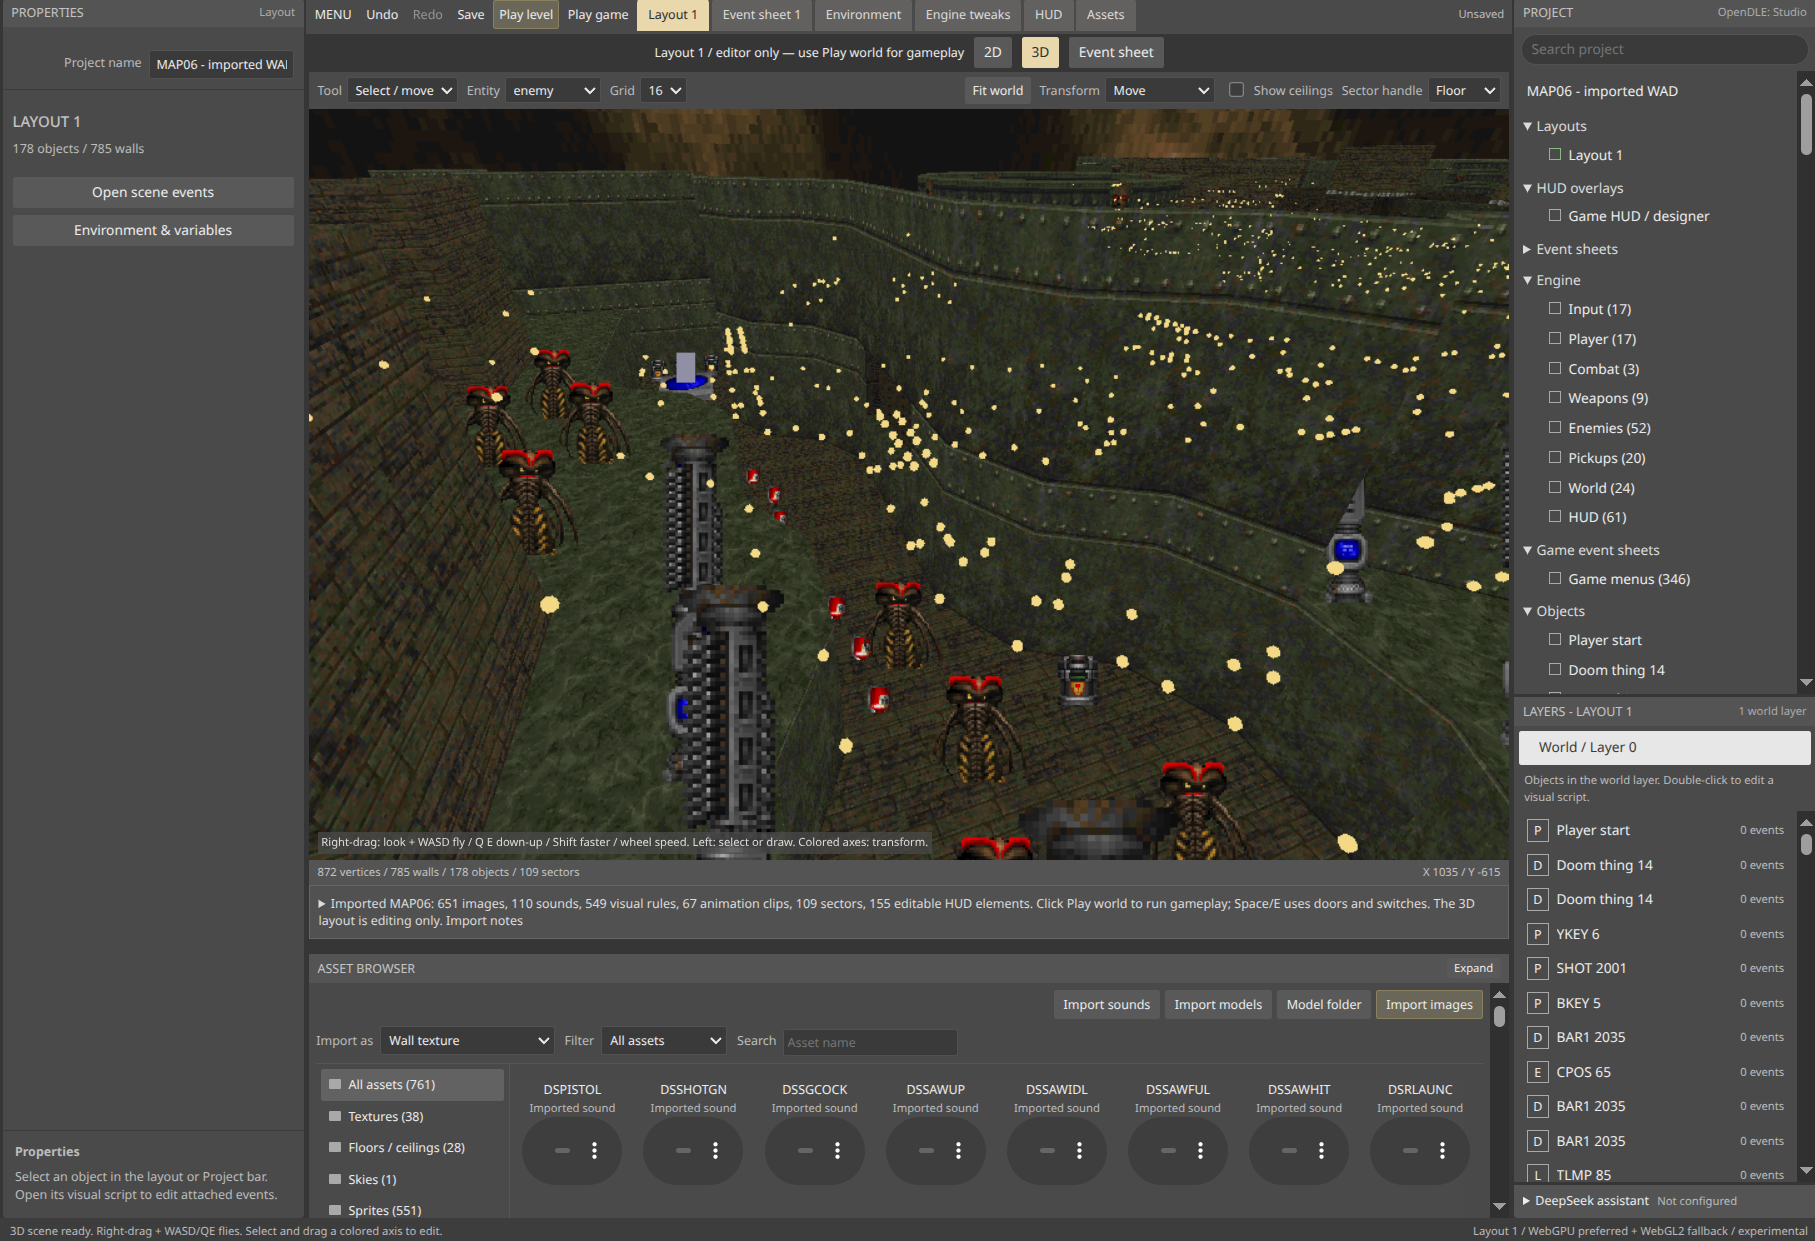
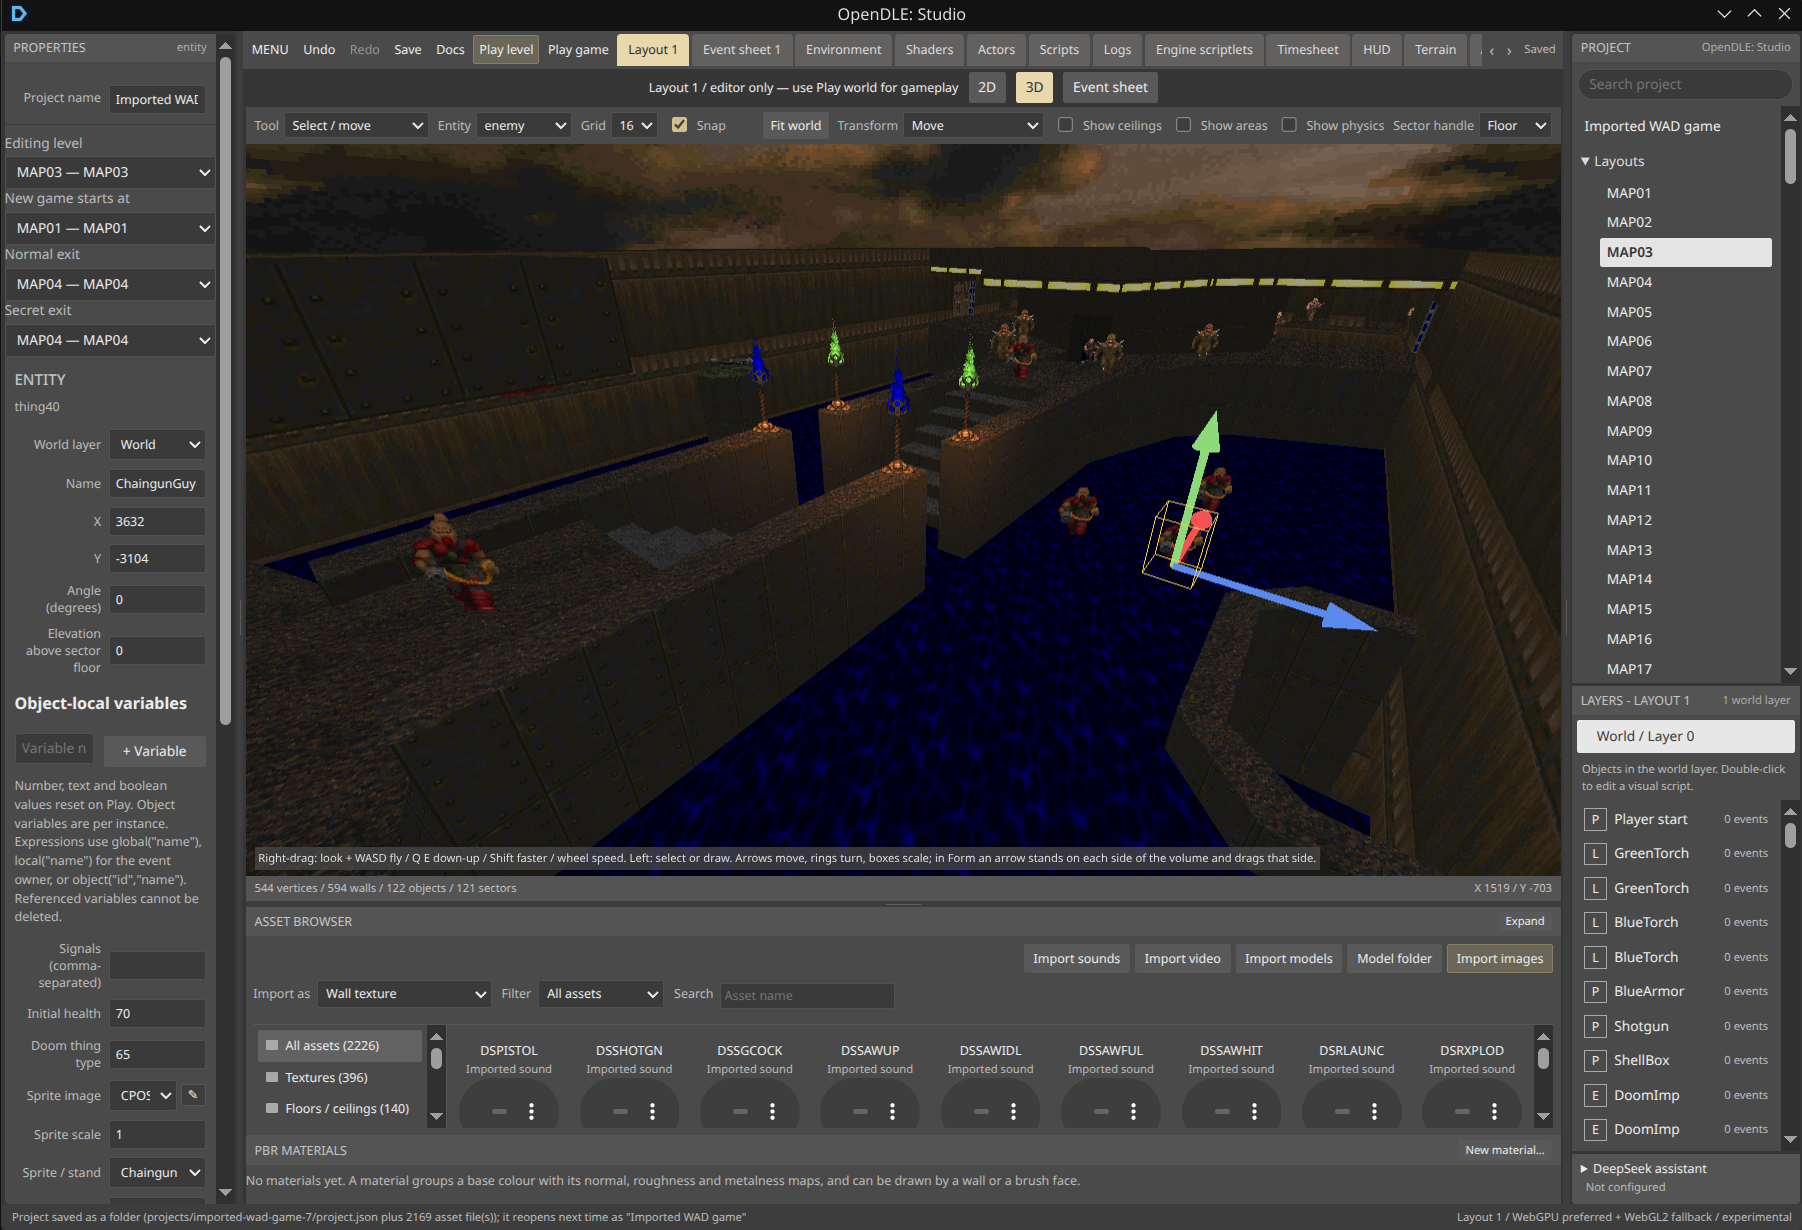
Use the author's own overall screenshot, as added
The hero image is the author's capture: an imported level in 3D with a selected
object's gizmo and properties. It is committed as it was handed over — no
resizing, no recompression — and the caption describes that picture rather than
the one it replaced.

The screenshot tool no longer has an `editor_overall` shot, so a capture pass
cannot overwrite a hand-made picture again.

diff --git a/README.md b/README.md
@@ -14,7 +14,7 @@ Doom and GZDoom content is a first-class input rather than the whole point: the 
 its maps, artwork and gameplay definitions, and everything it brings is editable in the same
 visual tools as a hand-built level.
 
-![The editor workspace: the 3D view of an imported Doom map with its monsters and pickups, the object tree and the asset browser](./Docs/editor_overall.png)
+![The editor workspace: an imported Doom level in 3D with its monsters, the selected object's move gizmo and properties, the project tree and the asset browser](./Docs/editor_overall.png)
 
 ## See it in action
 
